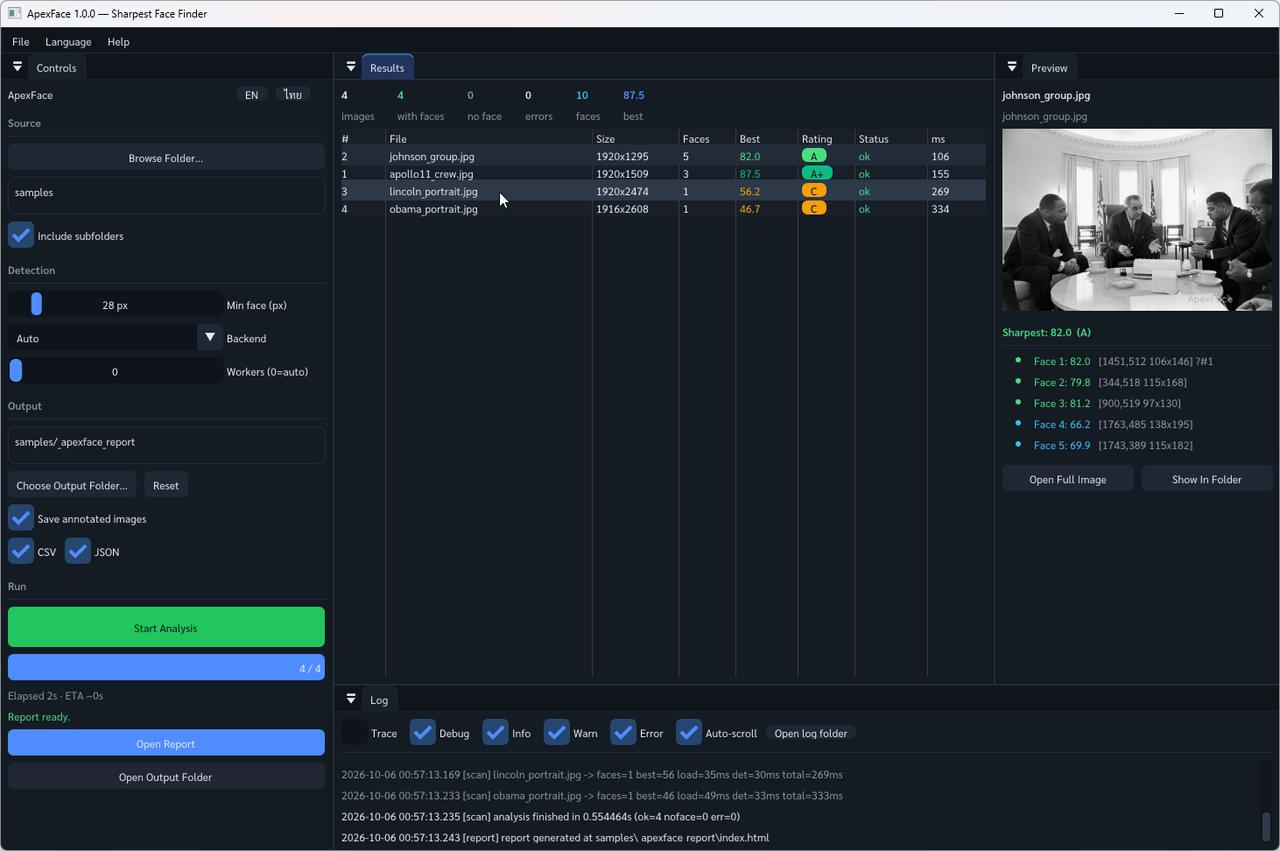
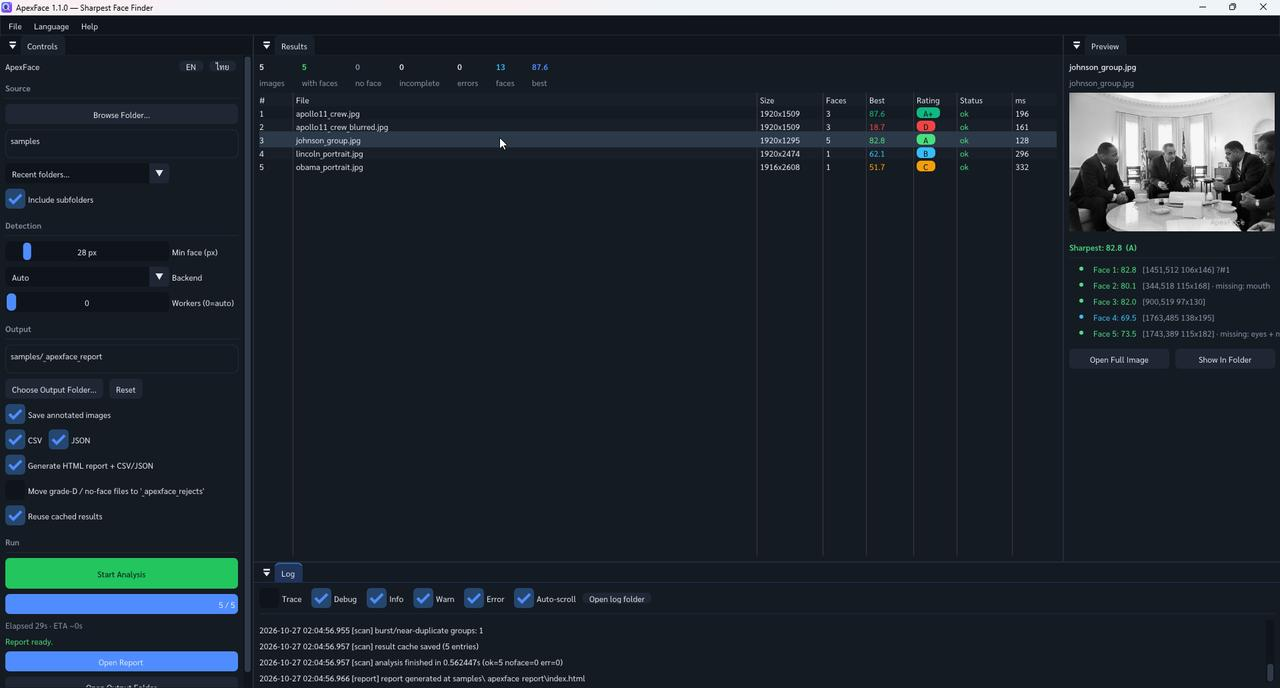
gui: --autorun flag + refreshed docs screenshot
- ApexFace.exe <folder> --autorun starts the analysis as soon as the UI is
  up (demo and screen-capture friendly); ApexFace.bat passes all args
  through, recent folders seeded from the initial folder
- assets/img/gui_results.png refreshed from a live 1.1.0 run (autorun,
  burst group + cache log lines, incomplete-face markers visible)
- changelog: --autorun bullet

diff --git a/docs/CHANGELOG.html b/docs/CHANGELOG.html
@@ -43,6 +43,7 @@ footer{color:var(--muted);font-size:13px;margin-top:50px;text-align:center;borde
 <li><span class="tag add">Added</span> <b>Recent folders</b> — the last five source folders remembered (dropdown under the path).</li>
 <li><span class="tag add">Added</span> <b>Restore moved rejects</b> — every move is journaled to <code>_apexface_moved.tsv</code>; a GUI button or <code>--restore-moved</code> moves everything back. Round-trip verified.</li>
 <li><span class="tag add">Added</span> <b>Unit tests + CI</b> — <code>tests/test_core.cpp</code> via ctest; GitHub Actions builds on windows-latest with OpenCV from vcpkg and runs the tests on every push.</li>
+<li><span class="tag add">Added</span> <code>--autorun</code> â <code>ApexFace.exe &lt;folder&gt; --autorun</code> starts the analysis immediately on launch (demo/screen-capture friendly).</li>
 </ul>
 </div>
 

diff --git a/src/gui/App.cpp b/src/gui/App.cpp
@@ -98,7 +98,7 @@ std::string f1s(double v) {
 
 class App {
 public:
-    int run(const wchar_t* initialFolderWide);
+    int run(const wchar_t* initialFolderWide, bool autoStart);
 
 private:
     // ------- UI panels
@@ -151,6 +151,7 @@ private:
     float fontScale_ = 1.f;
     ImFont* headingFont_ = nullptr;
     bool dockInit_ = true;
+    bool autoStart_ = false; // --autorun: start the analysis once the UI is up
 
     // log panel
     std::vector<Logger::Entry> logLines_;
@@ -162,11 +163,13 @@ private:
 
 // ---------------------------------------------------------------------------
 
-int App::run(const wchar_t* initialFolderWide) {
+int App::run(const wchar_t* initialFolderWide, bool autoStart) {
     st_.load(Settings::defaultPath());
     if (initialFolderWide) {
         st_.lastFolder = platform::utf8str(fs::path(initialFolderWide));
+        st_.addRecentFolder(st_.lastFolder);
     }
+    autoStart_ = autoStart;
     tr_.lang = st_.lang;
 
     Logger::Config lc;
@@ -224,6 +227,10 @@ int App::run(const wchar_t* initialFolderWide) {
             buildDockLayout(dsid);
         } else {
             ImGui::DockSpaceOverViewport(0, ImGui::GetMainViewport(), ImGuiDockNodeFlags_None);
+        }
+        if (autoStart_ && ImGui::GetFrameCount() >= 3 && !run_.running) {
+            autoStart_ = false;
+            startRun(); // --autorun: kick off the analysis once the UI is up
         }
 
         drawMenuBar();
@@ -991,9 +998,9 @@ void App::drawLogPanel() {
 
 } // namespace
 
-int RunApexFaceGui(const wchar_t* initialFolderWide) {
+int RunApexFaceGui(const wchar_t* initialFolderWide, bool autoStart) {
     App app;
-    return app.run(initialFolderWide);
+    return app.run(initialFolderWide, autoStart);
 }
 
 } // namespace gui

diff --git a/src/app/main_gui.cpp b/src/app/main_gui.cpp
@@ -1,16 +1,24 @@
 // ApexFace - GUI entry point (WinMain); delegates to gui::RunApexFaceGui()
+// usage: ApexFace.exe [folder] [--autorun]   (--autorun starts the analysis immediately)
 #include <windows.h>
 #include <shellapi.h>
 
 namespace gui {
-int RunApexFaceGui(const wchar_t* initialFolderWide);
+int RunApexFaceGui(const wchar_t* initialFolderWide, bool autoStart);
 }
 
-int WINAPI wWinMain(HINSTANCE, HINSTANCE, PWSTR lpCmdLine, int) {
+int WINAPI wWinMain(HINSTANCE, HINSTANCE, PWSTR, int) {
     int argc = 0;
     LPWSTR* argv = CommandLineToArgvW(GetCommandLineW(), &argc);
-    const wchar_t* folder = (argv && argc > 1) ? argv[1] : nullptr;
-    int rc = gui::RunApexFaceGui(folder);
+    const wchar_t* folder = nullptr;
+    bool autoStart = false;
+    if (argv) {
+        for (int i = 1; i < argc; ++i) {
+            if (wcscmp(argv[i], L"--autorun") == 0) autoStart = true;
+            else if (!folder) folder = argv[i];
+        }
+    }
+    int rc = gui::RunApexFaceGui(folder, autoStart);
     if (argv) LocalFree(argv);
     return rc;
 }

diff --git a/docs/CHANGELOG.md b/docs/CHANGELOG.md
@@ -28,6 +28,8 @@ Format follows [Keep a Changelog](https://keepachangelog.com/en/1.1.0/); version
 - **Unit tests + CI** — `tests/test_core.cpp` (rating boundaries, orientation, sharpness
   ordering, landmark completeness, EXIF) runs via ctest; GitHub Actions builds on
   windows-latest with OpenCV from vcpkg (manifest mode) and runs the tests on every push.
+- `--autorun` — `ApexFace.exe <folder> --autorun` starts the analysis immediately on launch
+  (demo and screen-capture friendly).
 
 ## [1.0.5] — 2026-10-27
 
